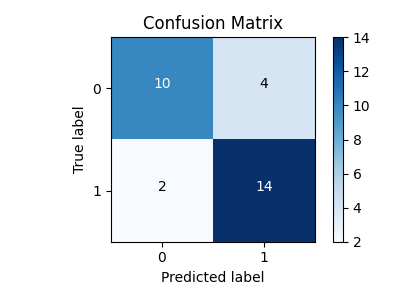
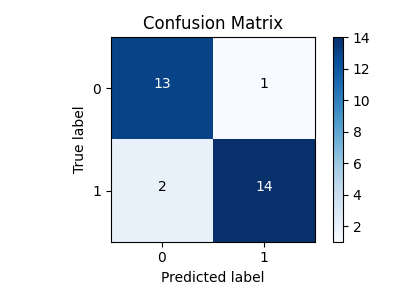
(#1) add feature selector model native model optimizer

diff --git a/reports/50krecords/evaluation_report_50krecords.html b/reports/50krecords/evaluation_report_50krecords.html
@@ -17,7 +17,7 @@
             <h1>Evaluation Report</h1>
             <div class="key-metrics">
               <h2>Key Metrics</h2>
-              <ul><li><strong>AUC:</strong> 0.4696</li><li><strong>Accuracy:</strong> 0.5764</li><li><strong>Precision:</strong> 0.1410</li><li><strong>Recall:</strong> 0.3667</li><li><strong>F1-Score:</strong> 0.2037</li></ul>
+              <ul><li><strong>AUC:</strong> 0.6140</li><li><strong>Accuracy:</strong> 0.7833</li><li><strong>Precision:</strong> 0.2500</li><li><strong>Recall:</strong> 0.2333</li><li><strong>F1-Score:</strong> 0.2414</li></ul>
             </div>
             <h2>Confusion Matrix</h2><img src="confusion_matrix.png" width="300">
             <h2>ROC Curve</h2><img src="roc_curve.png" width="300">
@@ -25,12 +25,12 @@
             <h2>Classification Report</h2>
             <pre>              precision    recall  f1-score   support
 
-           0     0.8480    0.6127    0.7114       173
-           1     0.1410    0.3667    0.2037        30
+           0     0.8686    0.8786    0.8736       173
+           1     0.2500    0.2333    0.2414        30
 
-    accuracy                         0.5764       203
-   macro avg     0.4945    0.4897    0.4576       203
-weighted avg     0.7435    0.5764    0.6364       203
+    accuracy                         0.7833       203
+   macro avg     0.5593    0.5560    0.5575       203
+weighted avg     0.7772    0.7833    0.7801       203
 </pre>
           </body>
         </html>

diff --git a/reports/happiness/evaluation_report_happiness.html b/reports/happiness/evaluation_report_happiness.html
@@ -17,7 +17,7 @@
             <h1>Evaluation Report</h1>
             <div class="key-metrics">
               <h2>Key Metrics</h2>
-              <ul><li><strong>AUC:</strong> 0.8817</li><li><strong>Accuracy:</strong> 0.8000</li><li><strong>Precision:</strong> 0.7778</li><li><strong>Recall:</strong> 0.8750</li><li><strong>F1-Score:</strong> 0.8235</li></ul>
+              <ul><li><strong>AUC:</strong> 0.9420</li><li><strong>Accuracy:</strong> 0.9000</li><li><strong>Precision:</strong> 0.9333</li><li><strong>Recall:</strong> 0.8750</li><li><strong>F1-Score:</strong> 0.9032</li></ul>
             </div>
             <h2>Confusion Matrix</h2><img src="confusion_matrix.png" width="300">
             <h2>ROC Curve</h2><img src="roc_curve.png" width="300">
@@ -25,12 +25,12 @@
             <h2>Classification Report</h2>
             <pre>              precision    recall  f1-score   support
 
-           0     0.8333    0.7143    0.7692        14
-           1     0.7778    0.8750    0.8235        16
+           0     0.8667    0.9286    0.8966        14
+           1     0.9333    0.8750    0.9032        16
 
-    accuracy                         0.8000        30
-   macro avg     0.8056    0.7946    0.7964        30
-weighted avg     0.8037    0.8000    0.7982        30
+    accuracy                         0.9000        30
+   macro avg     0.9000    0.9018    0.8999        30
+weighted avg     0.9022    0.9000    0.9001        30
 </pre>
           </body>
         </html>

diff --git a/src/feature_selector.py b/src/feature_selector.py
@@ -1,49 +1,109 @@
 # feature_selector.py
+
 import torch
 import torch.nn as nn
 import numpy as np
 import shap
 from sklearn.ensemble import RandomForestClassifier
+from model_optimizer import ModelOptimizer
 
 class EnhancedFeatureSelector(nn.Module):
     """
-    Dynamically selects features using a trainable controller mechanism and SHAP importance.
+    Dynamically selects features using a trainable controller mechanism 
+    and supports multiple ways to pick top features.
     """
     def __init__(self, input_dim):
         super(EnhancedFeatureSelector, self).__init__()
+        # 'alpha' is a trainable parameter if you want to do 
+        # gradient-based selection. (Optional usage.)
         self.alpha = nn.Parameter(torch.rand(input_dim))
 
     def forward(self, x):
         """
         Forward pass to calculate feature selection probabilities and apply them.
         """
-        probabilities = torch.sigmoid(self.alpha) 
-        probabilities = probabilities.unsqueeze(0).expand(
-            x.shape[0], -1
-        )                                            
-        selected_features = probabilities * x       
+        probabilities = torch.sigmoid(self.alpha)
+        # Expand to match x's batch dimension
+        probabilities = probabilities.unsqueeze(0).expand(x.shape[0], -1)
+        selected_features = probabilities * x
         return selected_features, probabilities
 
+    # ----------------------------------------------------------------
+    # 1) Original SHAP-based Method
+    # ----------------------------------------------------------------
     @staticmethod
     def select_via_shap(X, y, n_features=10):
         """
-        Use SHAP to select top n_features based on feature importance.
-        For binary classification, shap_values often has shape (2, n_samples, n_features).
-        We'll average across classes => (n_samples, n_features).
+        Use SHAP to select top n_features based on feature importance 
+        from a RandomForestClassifier.
         """
         if hasattr(X, "toarray"):
             X = X.toarray()
 
+        # Train a quick RandomForest
         model = RandomForestClassifier(random_state=42)
         model.fit(X, y)
-        
+
+        # SHAP Explainer
         explainer = shap.TreeExplainer(model, X)
         shap_values = explainer.shap_values(X, check_additivity=False)
         shap_values = np.array(shap_values)
 
+        # If binary => shap_values has shape (2, n_samples, n_features)
+        # Average across classes => (n_samples, n_features)
         if shap_values.ndim == 3:
-            shap_values = shap_values.mean(axis=0)  
+            shap_values = shap_values.mean(axis=0)
 
-        feature_importances = np.abs(shap_values).mean(axis=0) 
+        feature_importances = np.abs(shap_values).mean(axis=0)
+        top_features = np.argsort(feature_importances)[-n_features:]
+        return top_features
+
+    # ----------------------------------------------------------------
+    # 2) Model-Optimizer-based Method
+    # ----------------------------------------------------------------
+    @staticmethod
+    def select_via_model_optimizer(X, y, n_features=10, param_grids=None):
+        """
+        1) Use your ModelOptimizer to find the BEST classifier 
+           across multiple models/hyperparams using the FULL feature set.
+        2) Extract feature importance or coefficients from that best model.
+        3) Return the top N feature indices.
+
+        NOTE: Some models (KNN, SVM) do not expose 'feature_importances_' or 'coef_'.
+              If such a model is best, raise an error or handle gracefully.
+        """
+        if hasattr(X, "toarray"):
+            X = X.toarray()
+
+        # 1) Optimize across multiple classifiers
+        optimizer = ModelOptimizer()
+        best_model, best_score = optimizer.optimize_model(X, y, param_grids=param_grids)
+
+        # 2) Extract feature importances or coefficients
+        feature_importances = None
+        model_name = type(best_model).__name__  # e.g. 'RandomForestClassifier'
+
+        if hasattr(best_model, "feature_importances_"):
+            # e.g. RandomForestClassifier, GradientBoostingClassifier, XGBClassifier
+            feature_importances = best_model.feature_importances_
+        elif hasattr(best_model, "coef_"):
+            # e.g. LogisticRegression
+            # 'coef_' shape => (1, n_features) or (n_classes, n_features)
+            coefs = best_model.coef_
+            # If multiclass => average across classes, or pick 1
+            if coefs.ndim == 2:
+                # We'll just do mean across classes
+                coefs = np.mean(coefs, axis=0)
+            feature_importances = np.abs(coefs)
+        else:
+            # e.g. SVC(kernel='rbf'), KNN, etc. => no direct feature importance
+            msg = (f"Best model is {model_name} which does not expose feature importances. "
+                   "Cannot proceed with feature-based selection.")
+            raise ValueError(msg)
+
+        if feature_importances is None:
+            raise ValueError(f"Could not obtain feature importances from model {model_name}")
+
+        # 3) Sort and pick top N
         top_features = np.argsort(feature_importances)[-n_features:]
         return top_features

diff --git a/src/comparison.py b/src/comparison.py
@@ -4,7 +4,7 @@ import pandas as pd
 import numpy as np
 import json
 import matplotlib
-matplotlib.use('Agg')  # Use a non-interactive backend so plots can be saved headlessly
+matplotlib.use('Agg') 
 import matplotlib.pyplot as plt
 
 from sklearn.model_selection import train_test_split
@@ -13,12 +13,9 @@ from sklearn.metrics import accuracy_score, roc_auc_score
 from boruta import BorutaPy
 from sklearn.feature_selection import SelectKBest, f_classif, VarianceThreshold
 
-# For SHAP-based selection
 import shap
-# For ReliefF from scikit-rebate
 from skrebate import ReliefF
 
-# Local imports
 from preprocessing import DataPreprocessor
 from feature_selector import EnhancedFeatureSelector
 
@@ -46,10 +43,8 @@ def compare_feature_selectors(data, target_column, n_features=10):
     print("Preprocessing data...")
     X, y, _ = preprocessor.preprocess(data, target_column)
 
-    # Convert y to plain NumPy array for indexing
     y = y.values
 
-    # If X is sparse, convert to dense
     if hasattr(X, "toarray"):
         X = X.toarray()
 
@@ -86,8 +81,9 @@ def compare_feature_selectors(data, target_column, n_features=10):
     # SHAP-based
     # ---------------------------
     print("Testing SHAP-based feature selection...")
-    shap_selector = EnhancedFeatureSelector(input_dim=X_train.shape[1])
-    top_features = shap_selector.select_via_shap(X_train, y_train, n_features=n_features)
+    model_opt_selector = EnhancedFeatureSelector(input_dim=X_train.shape[1])
+    # top_features = model_opt_selector.select_via_shap(X_train, y_train, n_features=n_features)
+    top_features = model_opt_selector.select_via_model_optimizer(X_train, y_train, n_features=n_features)
 
     X_train_shap = X_train[:, top_features]
     X_test_shap  = X_test[:, top_features]

diff --git a/src/main.py b/src/main.py
@@ -23,7 +23,8 @@ def preprocess_and_train(data, target_column, columns_to_use=None, n_features=10
     # Feature Selection
     print("Performing feature selection...")
     selector = EnhancedFeatureSelector(input_dim=X_train.shape[1])
-    top_features = selector.select_via_shap(X_train, y_train, n_features=n_features)
+    # top_features = selector.select_via_shap(X_train, y_train, n_features=n_features)
+    top_features = selector.select_via_model_optimizer(X_train, y_train, n_features=n_features)
 
     reduced_selector = EnhancedFeatureSelector(input_dim=len(top_features))
 
